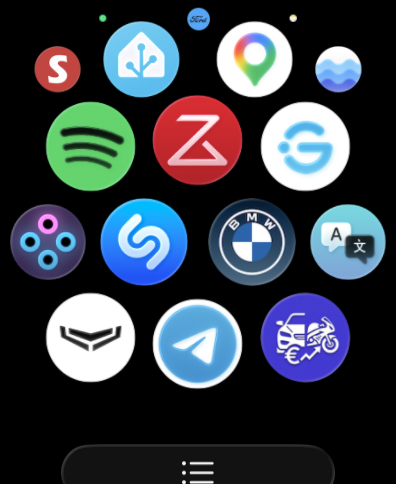
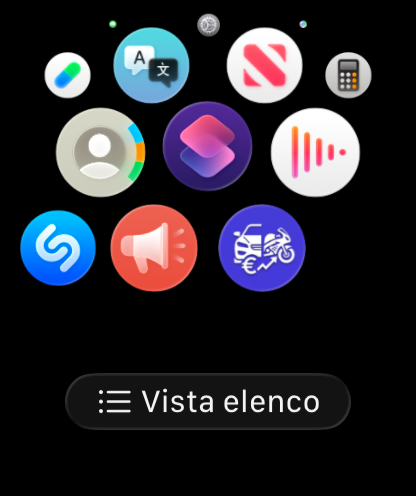
Corregge sovrapposizioni mobile nella sezione Apple Watch e in galleria
Su mobile la gallery "Guarda l'app in azione" agganciava lo screenshot
sticky sopra il testo di ogni step (bug pre-esistente, non solo sullo
step Watch): sostituito con un'immagine dedicata per ciascuno step, in
flusso normale, così non c'è più alcun rischio di sovrapposizione.
Anche la card "App per Apple Watch" aveva un margine negativo pensato
solo per l'affiancamento desktop, che su mobile tirava l'immagine
dentro il titolo: reso responsive.

Migliorata anche la transizione desktop tra iPhone e Watch nello step
7 (slide laterale con clip invece del cross-fade che sovrapponeva le
due sagome) e aggiornato lo screenshot della home screen del Watch con
una versione più leggibile dell'icona dell'app.

diff --git a/progetti/gestore-costi-veicoli.html b/progetti/gestore-costi-veicoli.html
@@ -109,11 +109,14 @@
     .watch-frame-wrap{transition:none}
   }
 
+  .gallery-sticky{overflow:hidden}
   .phone-frames{transition:opacity .5s ease, transform .5s ease}
-  .gallery-sticky[data-active-step="7"] .phone-frames{opacity:0;transform:scale(.94);pointer-events:none}
-  .watch-frame-wrap{position:absolute;inset:0;display:flex;align-items:center;justify-content:center;opacity:0;transform:scale(.94);transition:opacity .5s ease, transform .5s ease;pointer-events:none}
-  .gallery-sticky[data-active-step="7"] .watch-frame-wrap{opacity:1;transform:scale(1);pointer-events:auto}
+  .gallery-sticky[data-active-step="7"] .phone-frames{opacity:0;transform:translateX(-48px);pointer-events:none}
+  .watch-frame-wrap{position:absolute;inset:0;display:flex;align-items:center;justify-content:center;opacity:0;transform:translateX(48px);transition:opacity .5s ease, transform .5s ease;pointer-events:none}
+  .gallery-sticky[data-active-step="7"] .watch-frame-wrap{opacity:1;transform:translateX(0);pointer-events:auto}
   .watch-frame{position:relative;width:min(128px,34vw)}
+  .gallery-step-img{display:none}
+  .gallery-step-static-img{position:absolute;inset:8px;width:calc(100% - 16px);height:calc(100% - 16px);border-radius:21px;object-fit:cover;display:block}
   .watch-crown{position:absolute;right:-3px;top:36%;width:4px;height:10%;border-radius:0 2px 2px 0;background:#3a3a42}
   .watch-button{position:absolute;right:-4.5px;top:50%;width:5.5px;height:15%;border-radius:0 2px 2px 0;background:linear-gradient(90deg,#3a3a42,#57575f)}
   .watch-case{box-sizing:border-box;width:100%;aspect-ratio:396/484;background:linear-gradient(155deg,#2c2c33,#0a0a0d 55%);border-radius:15%;padding:6.5%;box-shadow:0 20px 50px rgba(20,10,60,0.16)}
@@ -152,11 +155,13 @@
     #features,#gallery,#pricing,#faq{padding-left:24px !important;padding-right:24px !important;padding-top:56px !important}
     section{padding-left:24px !important;padding-right:24px !important}
     .hero-media{flex:1 1 auto !important;max-width:260px !important;margin:0 auto}
+    .watch-glow-wrap{margin:0 auto 20px !important}
     .gallery-scroller{grid-template-columns:1fr !important;gap:32px !important}
-    .gallery-sticky{position:sticky !important;top:12px !important;margin:0 auto;z-index:2}
+    .gallery-sticky{display:none !important}
     .gallery-frame{width:min(120px,30vw) !important}
-    .watch-frame{width:min(110px,30vw) !important}
+    .watch-frame{width:min(150px,42vw) !important}
     .gallery-steps{gap:40px !important}
+    .gallery-step-img{display:flex !important;justify-content:center;margin-bottom:22px}
   }
 
   @media (min-width: 641px) and (max-width: 900px){
@@ -276,7 +281,7 @@
         <p style="margin:0;color:#4B4566;font-size:15px;line-height:1.6">Scarica lo storico spese e scadenze in CSV, in qualsiasi momento.</p>
       </div>
       <div style="background:#fff;border-radius:24px;padding:44px 48px;box-shadow:0 2px 16px rgba(20,10,60,0.06);display:flex;align-items:center;gap:48px;flex-wrap:wrap">
-        <div style="flex-shrink:0;width:180px;height:180px;border-radius:50%;background:radial-gradient(circle,#EFEBFF 0%,rgba(239,235,255,0) 72%);display:flex;align-items:center;justify-content:center;margin:-14px 0">
+        <div class="watch-glow-wrap" style="flex-shrink:0;width:180px;height:180px;border-radius:50%;background:radial-gradient(circle,#EFEBFF 0%,rgba(239,235,255,0) 72%);display:flex;align-items:center;justify-content:center;margin:-14px 0">
           <div style="position:relative;width:150px;height:184px">
             <div style="position:absolute;right:-2.5px;top:44px;width:3px;height:11px;border-radius:0 2px 2px 0;background:#3a3a42"></div>
             <div style="position:absolute;right:-3.5px;top:62px;width:4px;height:18px;border-radius:0 2px 2px 0;background:linear-gradient(90deg,#3a3a42,#57575f)"></div>
@@ -300,7 +305,7 @@
     </div>
 
     <div class="gallery-scroller" style="display:grid;grid-template-columns:320px 1fr;gap:64px;max-width:1080px;margin:0 auto">
-      <div class="gallery-sticky" style="position:sticky;top:100px;align-self:start;display:flex;gap:10px;justify-content:center;height:fit-content">
+      <div class="gallery-sticky" style="position:sticky;top:100px;align-self:start;display:flex;gap:10px;justify-content:center">
         <div class="phone-frames" style="display:flex;gap:10px">
           <div class="gallery-frame">
             <img class="gallery-img is-active" data-step="1" src="../assets/screenshots/dashboard.png" alt="Dashboard - tema chiaro">
@@ -332,6 +337,7 @@
 
       <div class="gallery-steps">
         <div class="gallery-step is-active" data-step="1">
+          <div class="gallery-step-img"><div class="gallery-frame"><img class="gallery-step-static-img" loading="lazy" src="../assets/screenshots/dashboard.png" alt="Dashboard di Gestore Costi Veicoli"></div></div>
           <span style="display:inline-flex;align-items:center;gap:8px;font-family:inherit;font-size:13px;font-weight:700;color:#4B3FE3;text-transform:uppercase;letter-spacing:.04em;margin-bottom:10px">Dashboard</span>
           <h3 style="margin:0 0 14px;font-size:26px;font-weight:800;letter-spacing:-.3px">Tutto il costo dei tuoi veicoli, in un colpo d'occhio</h3>
           <p style="margin:0 0 20px;color:#4B4566;font-size:16px;line-height:1.7">La schermata che apri per prima: quanto spendi questo mese, quest'anno o in totale, con il dettaglio diviso per categoria.</p>
@@ -343,6 +349,7 @@
         </div>
 
         <div class="gallery-step" data-step="2">
+          <div class="gallery-step-img"><div class="gallery-frame"><img class="gallery-step-static-img" loading="lazy" src="../assets/screenshots/garage.png" alt="Garage di Gestore Costi Veicoli"></div></div>
           <span style="display:inline-flex;align-items:center;gap:8px;font-size:13px;font-weight:700;color:#4B3FE3;text-transform:uppercase;letter-spacing:.04em;margin-bottom:10px">Garage</span>
           <h3 style="margin:0 0 14px;font-size:26px;font-weight:800;letter-spacing:-.3px">Tutti i tuoi veicoli, sempre a portata di mano</h3>
           <p style="margin:0 0 20px;color:#4B4566;font-size:16px;line-height:1.7">Auto, moto e ogni altro mezzo registrato in un unico garage, con prezzo finale, rata mensile e costo annuo reale a colpo d'occhio.</p>
@@ -354,6 +361,7 @@
         </div>
 
         <div class="gallery-step" data-step="3">
+          <div class="gallery-step-img"><div class="gallery-frame"><img class="gallery-step-static-img" loading="lazy" src="../assets/screenshots/carburante.png" alt="Carburante in Gestore Costi Veicoli"></div></div>
           <span style="display:inline-flex;align-items:center;gap:8px;font-size:13px;font-weight:700;color:#4B3FE3;text-transform:uppercase;letter-spacing:.04em;margin-bottom:10px">Carburante</span>
           <h3 style="margin:0 0 14px;font-size:26px;font-weight:800;letter-spacing:-.3px">Ogni rifornimento, tracciato nel dettaglio</h3>
           <p style="margin:0 0 20px;color:#4B4566;font-size:16px;line-height:1.7">Importo, litri e prezzo al litro di ogni pieno, mese per mese, per capire davvero quanto ti costa muoverti.</p>
@@ -365,6 +373,7 @@
         </div>
 
         <div class="gallery-step" data-step="4">
+          <div class="gallery-step-img"><div class="gallery-frame"><img class="gallery-step-static-img" loading="lazy" src="../assets/screenshots/scadenze.png" alt="Scadenze in Gestore Costi Veicoli"></div></div>
           <span style="display:inline-flex;align-items:center;gap:8px;font-size:13px;font-weight:700;color:#4B3FE3;text-transform:uppercase;letter-spacing:.04em;margin-bottom:10px">Scadenze</span>
           <h3 style="margin:0 0 14px;font-size:26px;font-weight:800;letter-spacing:-.3px">Bollo, assicurazione, revisione: mai più una sorpresa</h3>
           <p style="margin:0 0 20px;color:#4B4566;font-size:16px;line-height:1.7">Tutte le scadenze di tutti i veicoli in un'unica timeline ordinata per data, con lo storico di quelle già completate.</p>
@@ -376,6 +385,7 @@
         </div>
 
         <div class="gallery-step" data-step="5">
+          <div class="gallery-step-img"><div class="gallery-frame"><img class="gallery-step-static-img" loading="lazy" src="../assets/screenshots/dettaglio-veicolo.png" alt="Dettaglio veicolo in Gestore Costi Veicoli"></div></div>
           <span style="display:inline-flex;align-items:center;gap:8px;font-size:13px;font-weight:700;color:#4B3FE3;text-transform:uppercase;letter-spacing:.04em;margin-bottom:10px">Dettaglio veicolo</span>
           <h3 style="margin:0 0 14px;font-size:26px;font-weight:800;letter-spacing:-.3px">Ogni parametro del tuo veicolo, sotto controllo</h3>
           <p style="margin:0 0 20px;color:#4B4566;font-size:16px;line-height:1.7">Prezzo di listino, prezzo pagato, costi operativi annui e i dati necessari per calcolare il bollo, tutto in una scheda.</p>
@@ -387,6 +397,7 @@
         </div>
 
         <div class="gallery-step" data-step="6">
+          <div class="gallery-step-img"><div class="gallery-frame"><img class="gallery-step-static-img" loading="lazy" src="../assets/screenshots/impostazioni.png" alt="Impostazioni di Gestore Costi Veicoli"></div></div>
           <span style="display:inline-flex;align-items:center;gap:8px;font-size:13px;font-weight:700;color:#4B3FE3;text-transform:uppercase;letter-spacing:.04em;margin-bottom:10px">Impostazioni</span>
           <h3 style="margin:0 0 14px;font-size:26px;font-weight:800;letter-spacing:-.3px">L'app si adatta a te</h3>
           <p style="margin:0 0 20px;color:#4B4566;font-size:16px;line-height:1.7">Tema, sicurezza e backup dei tuoi dati, tutto a portata di mano in un'unica schermata.</p>
@@ -398,6 +409,13 @@
         </div>
 
         <div class="gallery-step" data-step="7">
+          <div class="gallery-step-img">
+            <div class="watch-frame">
+              <div class="watch-crown"></div>
+              <div class="watch-button"></div>
+              <div class="watch-case"><img loading="lazy" src="../assets/screenshots/watch-quickadd-real.png" alt="Aggiunta rapida da Apple Watch"></div>
+            </div>
+          </div>
           <span style="display:inline-flex;align-items:center;gap:8px;font-size:13px;font-weight:700;color:#4B3FE3;text-transform:uppercase;letter-spacing:.04em;margin-bottom:10px">Apple Watch</span>
           <h3 style="margin:0 0 14px;font-size:26px;font-weight:800;letter-spacing:-.3px">Anche dal polso, senza tirare fuori il telefono</h3>
           <p style="margin:0 0 20px;color:#4B4566;font-size:16px;line-height:1.7">Registra un rifornimento in pochi secondi direttamente dall'Apple Watch, con veicoli e categorie già sincronizzati dal telefono.</p>
